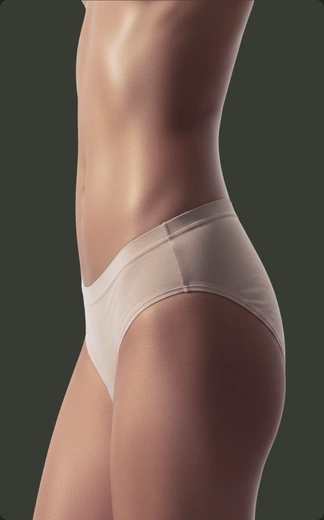
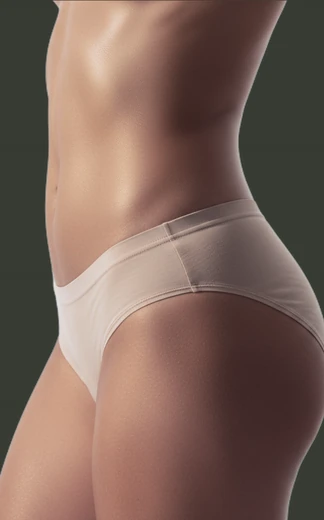
site: wide screens — S08/S10/S11 in the header container with full-bleed backgrounds, S08 page turn without empty frames, S05 photos without the Figma CROP stretch
WIDE-DIFF 8.1–8.3, 8.5, 8.6, 8.8, 10.1, 10.2, 10.4, 10.5, H.1, H.8, SP.1; IMG-DIFF §1, §3.
Report: docs/site-handoff/WIDE-FIX.md

Claude-Session: https://claude.ai/code/session_013eBRB2Vw7AJy6CtforE1i3

diff --git a/apps/site/components/HomePage.tsx b/apps/site/components/HomePage.tsx
@@ -194,19 +194,64 @@ export function HomePage() {
   const [reportPage, setReportPage] = useState(0);
   // M44: the page that leaves curls away over the left edge while the next one already lies underneath.
   const [curl, setCurl] = useState<{ src: string; n: number; dir: 1 | -1 } | null>(null);
-  // S08 note: clicks during a page turn (450 мс) are ignored.
-  const turnAt = useRef(0);
+  // S08 note: clicks during a page turn are ignored. The lock is held until the new page has actually landed
+  // (animationend of the incoming page), not by a 450 мс timer from the click (WIDE-DIFF 8.5/8.6).
+  const turning = useRef(false);
+  const turnTimer = useRef<number | undefined>(undefined);
+  const s08Ref = useRef<HTMLElement>(null);
+  const shotRef = useRef<HTMLImageElement>(null);
+  // WIDE-DIFF 8.5: every page is fetched and decoded before it is shown — the turn used to cross-fade an empty white
+  // box while the next page was still loading and then the picture snapped in.
+  const slideReady = useRef<Map<string, Promise<void>>>(new Map());
+  const loadSlide = (src: string) => {
+    let ready = slideReady.current.get(src);
+    if (!ready) {
+      const img = new Image();
+      img.src = src;
+      ready = img.decode().catch(() => undefined);
+      slideReady.current.set(src, ready);
+    }
+    return ready;
+  };
+  useEffect(() => {
+    const section = s08Ref.current;
+    if (!section) return;
+    const io = new IntersectionObserver((entries) => {
+      if (!entries.some((entry) => entry.isIntersecting)) return;
+      REPORT_SLIDES.forEach(([src]) => loadSlide(src));
+      io.disconnect();
+    }, { rootMargin: "1200px 0px" });
+    io.observe(section);
+    return () => io.disconnect();
+  }, []);
   const [turnDir, setTurnDir] = useState<1 | -1>(1);
-  const turnReport = (dir: 1 | -1) => {
+  const turnReport = async (dir: 1 | -1) => {
+    if (turning.current) return;
     const reduce = window.matchMedia("(prefers-reduced-motion: reduce)").matches;
-    // the lock lasts as long as the turn: 450 мс on the desktop, the M44 curl takes 520 мс
-    const lock = window.matchMedia("(max-width: 1100px)").matches ? 520 : 450;
-    if (!reduce && performance.now() - turnAt.current < lock) return;
-    turnAt.current = performance.now();
+    turning.current = true;
+    const next = (reportPage + REPORT_SLIDES.length + dir) % REPORT_SLIDES.length;
+    // a page that is slow to arrive must not freeze the arrows: give up waiting after 1.5 s
+    await Promise.race([loadSlide(REPORT_SLIDES[next][0]), new Promise((done) => window.setTimeout(done, 1500))]);
     setTurnDir(dir);
     if (!reduce) setCurl({ src: REPORT_SLIDES[reportPage][0], n: Date.now(), dir });
-    setReportPage((n) => (n + REPORT_SLIDES.length + dir) % REPORT_SLIDES.length);
+    setReportPage(next);
+    // the M44 curl takes 520 мс, the desktop turn 450 мс; animationend releases the lock, this is only the safety net
+    window.clearTimeout(turnTimer.current);
+    turnTimer.current = window.setTimeout(() => { turning.current = false; }, reduce ? 0 : 900);
   };
+  const turnDone = () => { window.clearTimeout(turnTimer.current); turning.current = false; };
+  // The incoming page stays the same <img> (no remount by key): its src changes to an already decoded file and the
+  // entry animation is restarted in place, so there is never a frame with an empty layer.
+  const firstShot = useRef(true);
+  useLayoutEffect(() => {
+    if (firstShot.current) { firstShot.current = false; return; }
+    const img = shotRef.current;
+    if (!img) return;
+    img.style.animation = "none";
+    void img.offsetWidth;
+    img.style.animation = "";
+  }, [reportPage]);
+  const reportDrag = useRef<number | null>(null);
   const reportTouch = useRef<number | null>(null);
   const [reportFull, setReportFull] = useState(false);
   const [chipsOpen, setChipsOpen] = useState(false);
@@ -1038,7 +1083,7 @@ export function HomePage() {
             {/* Desktop rest state of 1385:579: the bottom edges of cards 2 and 3 peek under the first one.
                 They are separate strips, so the real next card can slide in over the deck from below. */}
             {DECK.slice(1).map(([title], index) => (
-              <i className="deck-edge" key={title} aria-hidden style={{ ["--i" as string]: index + 1, backgroundImage: `linear-gradient(180deg, rgba(0,0,0,0) 56%, rgba(0,0,0,.4)), url(/figma/home/deck/card-${index + 2}.webp)` }} />
+              <i className="deck-edge" key={title} aria-hidden style={{ ["--i" as string]: index + 1, backgroundImage: `linear-gradient(180deg, rgba(0,0,0,0) 56%, rgba(0,0,0,.4)), image-set(url(/figma/home/deck/card-${index + 2}.webp) 1x, url(/figma/home/deck/card-${index + 2}@2x.webp) 2x)` }} />
             ))}
             {DECK.map(([title, text, tail], index) => {
               const body = (heading: ReactNode) => (
@@ -1257,7 +1302,7 @@ export function HomePage() {
           </div>
         </section>
 
-        <section data-s="s08">
+        <section data-s="s08" ref={s08Ref}>
           <div className="wrap">
             <article className="s08-card">
               <div className="s08-copy">
@@ -1279,21 +1324,32 @@ export function HomePage() {
                   if (start === null || end === undefined || Math.abs(end - start) < 40) return;
                   turnReport(end < start ? 1 : -1);
                 }}
+                // 8.6 (note 1303:2778): the page can also be dragged with a mouse on the desktop
+                onPointerDown={(event) => { if (event.pointerType === "mouse" && event.button === 0 && !(event.target as HTMLElement).closest("button")) reportDrag.current = event.clientX; }}
+                onPointerUp={(event) => {
+                  const start = reportDrag.current;
+                  reportDrag.current = null;
+                  if (start === null || event.pointerType !== "mouse" || Math.abs(event.clientX - start) < 40) return;
+                  turnReport(event.clientX < start ? 1 : -1);
+                }}
+                onPointerLeave={() => { reportDrag.current = null; }}
               >
                 <button type="button" className="s08-nav prev" aria-label="Предыдущая страница отчёта" onClick={() => turnReport(-1)} />
                 <i className="s08-sheet s08-sheet-3" aria-hidden />
                 <i className="s08-sheet s08-sheet-2" aria-hidden />
                 <img
+                  ref={shotRef}
                   className={`s08-shot${turnDir < 0 ? " is-back" : ""}`}
-                  key={reportPage}
                   src={REPORT_SLIDES[reportPage][0]}
                   alt=""
+                  draggable={false}
+                  onAnimationEnd={(event) => { if (event.target === event.currentTarget) turnDone(); }}
                   onClick={() => {
                     // M44: on phones a tap on the page opens the full-screen view with pinch-zoom.
                     if (window.matchMedia("(max-width: 1100px)").matches) setReportFull(true);
                   }}
                 />
-                {curl && <img className={`s08-shot s08-curl${curl.dir < 0 ? " is-back" : ""}`} key={curl.n} src={curl.src} alt="" aria-hidden onAnimationEnd={() => setCurl(null)} />}
+                {curl && <img className={`s08-shot s08-curl${curl.dir < 0 ? " is-back" : ""}`} key={curl.n} src={curl.src} alt="" aria-hidden onAnimationEnd={() => { setCurl(null); turnDone(); }} />}
                 <button type="button" className="s08-nav next" aria-label="Следующая страница отчёта" onClick={() => turnReport(1)} />
               </div>
               {reportFull && createPortal(<ReportViewer page={reportPage} onPage={setReportPage} onClose={() => setReportFull(false)} />, document.body)}

diff --git a/apps/site/app/globals.css b/apps/site/app/globals.css
@@ -2963,22 +2963,23 @@ body [data-s="s08"] .s08-nav { background: rgba(0,0,0,.25); -webkit-backdrop-fil
 body [data-s="s08"] .btn-light img { width: 16px; height: 16px; margin-left: 8px; }
 .s08-br { display: none; }
 @media (min-width: 1101px) {
-  body [data-s="s08"] { padding: 128px 48px; }
-  body [data-s="s08"] > .wrap { padding: 0; max-width: none; width: 100%; }
+  /* WIDE-DIFF 8.1: background full-bleed, the card stays in the header's 1344 container (Figma 1385:744: x 48–1392). */
+  body [data-s="s08"] { padding: 128px 0; }
+  body [data-s="s08"] > .wrap { padding: 0; max-width: none; width: min(var(--content), calc(100% - 96px)); margin: 0 auto; }
   body [data-s="s08"] .s08-card { position: relative; display: block; height: 740px; padding: 48px; border-radius: 8px; overflow: hidden; background: rgba(0,0,0,.25); -webkit-backdrop-filter: blur(36px); backdrop-filter: blur(36px); }
   body [data-s="s08"] .s08-copy { position: relative; z-index: 1; display: flex; flex-direction: column; justify-content: space-between; width: 563px; max-width: none; height: 452px; gap: 0; }
   .s08-br { display: inline; }
   body [data-s="s08"] .s08-foot { display: flex; flex-direction: column; align-items: flex-start; gap: 48px; width: 352px; }
   body [data-s="s08"] .s08-copy p { max-width: 352px; font-size: 16px; line-height: 20px; color: rgba(248,249,246,.65); }
   body [data-s="s08"] .s08-copy .btn { height: 44px; padding: 12px 16px; }
-  body [data-s="s08"] .s08-stack { position: absolute; left: 539px; right: 40px; top: 48px; height: 731px; overflow: visible; }
+  body [data-s="s08"] .s08-stack { position: absolute; left: 539px; right: auto; width: min(765px, calc(100% - 579px)); top: 48px; height: 731px; overflow: visible; }
   body [data-s="s08"] .s08-stack .s08-shot { position: absolute; left: 64px; top: 0; width: 605px; height: 727px; max-height: none; border-radius: 0; object-fit: cover; object-position: top; box-shadow: none; transform: none; background: #fff; z-index: 2; }
   body [data-s="s08"] .s08-sheet-2 { left: 103px; top: 16px; width: 582px; height: 699px; background: #707267; z-index: 1; }
   body [data-s="s08"] .s08-sheet-3 { left: 119px; top: 32px; width: 582px; height: 699px; background: rgba(255,255,255,.2); z-index: 0; }
   body [data-s="s08"] .s08-nav { top: 274px; z-index: 4; }
   body [data-s="s08"] .s08-nav.prev { left: 0; }
   body [data-s="s08"] .s08-nav.next { right: 0; }
-  body [data-s="s08"] .s08-glass { position: absolute; left: 0; right: 0; bottom: 0; z-index: 3; display: grid; grid-template-columns: repeat(3, minmax(0, 405px)); justify-content: space-between; gap: 16px; padding: 64px 48px 48px; }
+  body [data-s="s08"] .s08-glass { position: absolute; left: 0; right: 0; bottom: 0; z-index: 3; display: grid; grid-template-columns: repeat(3, minmax(0, 405px)); justify-content: start; gap: 16px; padding: 64px 48px 48px; }
   body [data-s="s08"] .s08-glass article { height: 128px; padding: 24px; display: flex; flex-direction: column; gap: 12px; border: 0; border-radius: 8px; background: rgba(0,0,0,.25); -webkit-backdrop-filter: blur(50px); backdrop-filter: blur(50px); }
   body [data-s="s08"] .s08-glass h3 { margin: 0; font-weight: 300; font-size: 24px; line-height: 28px; color: #e7f551; white-space: nowrap; letter-spacing: -0.4px; }
   body [data-s="s08"] .s08-glass p { margin: 0; font-size: 16px; line-height: 20px; color: rgba(248,249,246,.65); }

diff --git a/apps/site/app/adaptive/home.css b/apps/site/app/adaptive/home.css
@@ -848,3 +848,32 @@ body [data-s="s13"] .s13-arrow:disabled { opacity: .3; cursor: default; }
 .lab-bs-count span { color: rgba(11, 12, 8, .65); }
 .lab-bs-actions { display: flex; flex-direction: column; gap: 8px; }
 .lab-bs-actions .btn { width: 100%; height: 48px; justify-content: center; }
+
+/* ===== WIDE-DIFF (15.10): wide screens 1440–2560. Rule: the background runs the full width of the window, the
+   content stays in the header's container (1344 centred: max(48px, 50% − 672px) on each side). ===== */
+
+/* S10 (1395:574) · 10.1: the grey #d7d8cd filled only the 1344 box (white stripes at the sides, the content stuck to
+   the grey edge). Full-bleed on every width, the same trick as on the tablet: the band paints past its box. */
+body [data-s="s10"].band { background: #d7d8cd; box-shadow: 0 0 0 100vmax #d7d8cd; clip-path: inset(0 -100vmax); }
+/* 10.4: the anchor /#products stops with the heading under the header's bottom edge, not under the header */
+#products { scroll-margin-top: var(--header-now); }
+@media (min-width: 1101px) {
+  /* 10.2: 128 from the top as in the frame (was 120/140) */
+  body [data-s="s10"].band { padding: 128px 0; }
+  /* 10.5: products 880 + card 440; with a classic scrollbar on 1440 the container is 1329 — the products give way */
+  body [data-s="s10"] .checker-grid { grid-template-columns: minmax(0, 880px) 440px; justify-content: space-between; }
+}
+
+/* S11 «Тест разработан в Австрии» (1385:792) · H.1: the copy sits in the container, the photo half runs to the right
+   edge of the window and the photo always covers it; the CE-IVDR / ISO plates belong to the photo (48 from its left
+   and bottom edges, 2 × 307 + 10 as in the frame) instead of floating past its sides. */
+@media (min-width: 1101px) {
+  body [data-s="s11"] .aus-copy { padding: 128px 48px 128px max(48px, calc(100% - 672px)); } /* % of the half = 50% of the window − 672 */
+  body [data-s="s11"] .aus-photo .parallax { inset: calc(50% - 600px) auto auto 50%; width: max(1024px, 100%); height: auto; aspect-ratio: 1; translate: -50% 0; min-height: calc(100% + 176px); object-fit: cover; }
+  body [data-s="s11"] .aus-cards { left: 48px; right: auto; width: min(624px, calc(100% - 96px)); grid-template-columns: repeat(2, minmax(0, 307px)); }
+}
+
+/* S08 · 8.8: the page and the two sheets under it have rounded top corners in the frame (1385:759–761: 8/8/0/0). */
+@media (min-width: 1101px) {
+  body [data-s="s08"] .s08-stack .s08-shot, body [data-s="s08"] .s08-sheet { border-radius: 8px 8px 0 0; }
+}

diff --git a/apps/site/app/adaptive/shared.css b/apps/site/app/adaptive/shared.css
@@ -300,3 +300,7 @@ html body [data-s="s15"] .acc.is-open .acc-plus { background-image: none; }
 /* Touch: no blue Chromium tap flash on the lecturer cards and the tab rows — they have their own press / active states
    (M17 .is-tapped, M09 / M19 pills, P06 tabs). */
 .kf-lector, .sp-lectors > div, .sp-tabs button, .sp-report-tabs button, .ls-tabs button { -webkit-tap-highlight-color: transparent; }
+
+/* WIDE-DIFF / IMG-DIFF §3: SVG icons in boxes of another proportion (share-2 14×9 in 16×16, check 10×8 in 14×14,
+   play 14×16 in 24×24, chevron 24×20 on 2560) were stretched; an icon keeps its own proportion and is centred. */
+img[src$=".svg"] { object-fit: contain; }

diff --git a/apps/site/app/adaptive/blog.css b/apps/site/app/adaptive/blog.css
@@ -381,3 +381,9 @@ main.blog-article .table-swipe.is-gone { opacity: 0; }
 @media (max-width: 767px) and (prefers-reduced-motion: reduce) {
   main.blog-page .card.is-press, main.blog-page .author-card.is-press { transform: none; }
 }
+
+/* WIDE-DIFF: 208 + 760 + 312 + 2 × 32 = 1344 exactly — with a classic scrollbar on 1440 the container is 1329 and the
+   right column stuck out by 15 px. The text column gives way instead. */
+@media (min-width: 1280px) {
+  main.blog-article .article-grid { grid-template-columns: 208px minmax(0, 760px) 312px; justify-content: space-between; }
+}

diff --git a/apps/site/app/adaptive/course.css b/apps/site/app/adaptive/course.css
@@ -101,3 +101,9 @@
   html body .ls-layout .ls-about-mob { display: none; }
   html body .ls-layout .ls-after { background: transparent; border-radius: 0; border-top: 1px solid rgba(11, 12, 8, 0.3); padding: 20px 0 0; }
 }
+
+/* WIDE-DIFF: the lesson layout used `100% − 40px`, so with a classic scrollbar on 1440 it stood 7 px wider than the
+   header's container on each side; on the desktop it takes the same container as the header. */
+@media (min-width: 1101px) {
+  [data-s="l01"].ls-layout { width: min(var(--content), calc(100% - 96px)); }
+}

diff --git a/apps/site/app/adaptive/specialists.css b/apps/site/app/adaptive/specialists.css
@@ -160,3 +160,9 @@
   [data-s="p06"] .sp-controls { left: var(--off); top: 879px; bottom: auto; z-index: 2; }
 }
 
+
+/* WIDE-DIFF SP.1: the back sheet of the P06 fan (rotate 7°) stuck 8 px past the container's right edge; in the frame
+   (1126:966) the rotated pages end exactly at x 1392. */
+@media (min-width: 1101px) {
+  [data-s="p06"] .sp-sheet.is-back-2 { left: 32px; }
+}

diff --git a/docs/site-handoff/tools/sym-recrop.py b/docs/site-handoff/tools/sym-recrop.py
@@ -1,0 +1,92 @@
+"""Re-render the S05 symptom cards without the non-uniform Figma CROP stretch.
+
+For each card: warp the raw cut-out exactly as Figma does (imageTransform, CROP) -> check it lines up with the current
+export; learn the export's colour grading (Figma image filters + card glass + bottom gradient) as a polynomial in
+(r,g,b,y) on the photo pixels; then warp again with an equal scale (same vertical span, same horizontal centre),
+apply the learnt grading and composite over the export's own background rows.
+"""
+import sys, json
+import numpy as np
+from PIL import Image
+
+SRC = "/home/claude/foodfox/apps/site/public/figma/symptoms/"
+OUT = sys.argv[1]
+
+def load_rgba(path, alpha_from=None, size=None):
+    im = Image.open(path).convert("RGBA")
+    if alpha_from:
+        a = Image.open(alpha_from).convert("RGBA").split()[3].resize(im.size, Image.LANCZOS)
+        im.putalpha(a)
+    return np.asarray(im).astype(np.float32) / 255.0
+
+def warp(img, a, tx, d, ty, W, H):
+    """node pixel (x,y) -> image u = a*x/W + tx, v = d*y/H + ty; bilinear; outside -> alpha 0"""
+    ih, iw = img.shape[:2]
+    xs = (np.arange(W) + 0.5) / W
+    ys = (np.arange(H) + 0.5) / H
+    u = a * xs[None, :] + tx
+    v = d * ys[:, None] + ty
+    px = u * iw - 0.5
+    py = v * ih - 0.5
+    px = np.broadcast_to(px, (H, W)); py = np.broadcast_to(py, (H, W))
+    inside = (px >= -0.5) & (px <= iw - 0.5) & (py >= -0.5) & (py <= ih - 0.5)
+    x0 = np.clip(np.floor(px).astype(int), 0, iw - 1); y0 = np.clip(np.floor(py).astype(int), 0, ih - 1)
+    x1 = np.clip(x0 + 1, 0, iw - 1); y1 = np.clip(y0 + 1, 0, ih - 1)
+    fx = np.clip(px - np.floor(px), 0, 1)[..., None]; fy = np.clip(py - np.floor(py), 0, 1)[..., None]
+    out = (img[y0, x0] * (1 - fx) * (1 - fy) + img[y0, x1] * fx * (1 - fy) + img[y1, x0] * (1 - fx) * fy + img[y1, x1] * fx * fy)
+    out[~inside] = 0
+    return out
+
+def feats(rgb, yy):
+    r, g, b = rgb[:, 0], rgb[:, 1], rgb[:, 2]
+    one = np.ones_like(r)
+    base = [one, r, g, b, r * r, g * g, b * b, r * g, g * b, r * b, r ** 3, g ** 3, b ** 3]
+    return np.stack(base + [yy, yy * yy] + [yy * t for t in (r, g, b)] + [yy * yy * t for t in (r, g, b)], 1)
+
+CARDS = {
+    # name: raw, alpha source, Figma imageTransform (1385:610 / 1385:621 / 1385:636)
+    "skin": dict(raw="s7.png", alpha=None, tr=[[1.2041949033737183, 0, -0.025974320247769356], [0, 0.954544723033905, 0.028934331610798836]]),
+    "gut": dict(raw="s1.png", alpha="gut1.png", tr=[[0.8418211936950684, 0, 0.07851788401603699], [0, 1.0006554126739502, -0.0006554335122928023]]),
+    "well": dict(raw="s12.png", alpha=None, tr=[[0.7878803014755249, 0, -0.18750469386577606], [0, 0.9365369081497192, 0.06303613632917404]]),
+}
+W, H = 648, 1040
+report = {}
+for name, c in CARDS.items():
+    raw = load_rgba(SRC + c["raw"], SRC + c["alpha"] if c["alpha"] else None)
+    ih, iw = raw.shape[:2]
+    (a, _, tx), (_, d, ty) = c["tr"]
+    exp = np.asarray(Image.open(SRC + f"{name}-card@2x.webp").convert("RGB")).astype(np.float32) / 255.0
+    old = warp(raw, a, tx, d, ty, W, H)
+    alpha = old[..., 3]
+    yy = np.broadcast_to(((np.arange(H) + 0.5) / H)[:, None], (H, W))
+    # background rows: the export where the photo is absent
+    bg = np.zeros((H, 3), np.float32)
+    for y in range(H):
+        m = alpha[y] < 0.02
+        bg[y] = np.median(exp[y][m], 0) if m.sum() > 8 else np.nan
+    idx = np.arange(H); ok = ~np.isnan(bg[:, 0])
+    for ch in range(3): bg[:, ch] = np.interp(idx, idx[ok], bg[ok, ch])
+    # fit photo grading on opaque pixels
+    m = alpha > 0.98
+    X = feats(old[..., :3][m], yy[m]); Y = exp[m]
+    coef, *_ = np.linalg.lstsq(X, Y, rcond=None)
+    pred = np.clip(X @ coef, 0, 1)
+    err_fit = float(np.abs(pred - Y).mean() * 255)
+    # full reconstruction of the current export (sanity: the model explains it)
+    allX = feats(old[..., :3].reshape(-1, 3), yy.reshape(-1))
+    photo = np.clip(allX @ coef, 0, 1).reshape(H, W, 3)
+    recon = photo * alpha[..., None] + bg[:, None, :] * (1 - alpha[..., None])
+    err_recon = float(np.abs(recon - exp).mean() * 255)
+    # equal-scale crop: keep the vertical span (d, ty), keep the horizontal centre
+    a2 = d * ih * (W / H) / iw
+    tx2 = (a * 0.5 + tx) - a2 * 0.5
+    new = warp(raw, a2, tx2, d, ty, W, H)
+    al2 = new[..., 3]
+    nX = feats(new[..., :3].reshape(-1, 3), yy.reshape(-1))
+    photo2 = np.clip(nX @ coef, 0, 1).reshape(H, W, 3)
+    out = photo2 * al2[..., None] + bg[:, None, :] * (1 - al2[..., None])
+    img = Image.fromarray((out * 255 + 0.5).astype(np.uint8))
+    img.save(f"{OUT}/{name}-card@2x.png")
+    Image.fromarray((recon * 255 + 0.5).astype(np.uint8)).save(f"{OUT}/{name}-recon.png")
+    report[name] = dict(stretch_y_over_x=round((ih * d and (1 / d) / ih) / ((1 / a) / iw), 3), a2=round(a2, 4), tx2=round(tx2, 4), err_fit=round(err_fit, 2), err_recon=round(err_recon, 2))
+print(json.dumps(report, indent=1))

diff --git a/docs/site-handoff/WIDE-FIX.md b/docs/site-handoff/WIDE-FIX.md
@@ -1,0 +1,32 @@
+# WIDE-FIX: исправления по WIDE-DIFF и IMG-DIFF (15.10.2026, MSK)
+
+Ветка `cursor/partner-cabinet-auth-5e5b`. Проверка локально (`next build` + `next start`, headless Chromium) на 2560, 2048 (27" при 125%), 1920, 1707 (27" при 150%), 1680, 1536, 1440, 1280, 1024, 768, 390. Живой сайт и CDN Figma из облачной среды недоступны (сетевая политика), Figma читалась через API.
+
+## Исправлено
+| Пункт | Что сделано | Где |
+|---|---|---|
+| 8.1–8.3 S08 | Карточка в контейнере 1344, фон на всю ширину; колода 765 px (`min(765px, 100% − 579px)`); плашки `repeat(3, minmax(0,405px))` от левого края, gap 16 | `globals.css` (блок S08 ≥1101) |
+| 8.5–8.6 S08 | Все листы грузятся и декодируются при подходе секции (IO, rootMargin 1200); смена листа только после `decode()`; `<img>` не перемонтируется по `key`, анимация перезапускается на месте; блокировка кликов снимается по `animationend`, а не по таймеру; перелистывание перетаскиванием мышью | `HomePage.tsx` |
+| 8.8 S08 | Скругление 8/8/0/0 у листа и подложек (1385:759–761) | `adaptive/home.css` |
+| 10.1, 10.2, 10.4, 10.5 S10 | Серый фон на всю ширину на всех ширинах (box-shadow + clip-path), отступ 128, `#products { scroll-margin-top: var(--header-now) }`, колонки `minmax(0,880px) 440px` | `adaptive/home.css` |
+| H.1 S11 | Текст в контейнере (`padding-left: max(48px, 100% − 672px)` от половины), фото всегда покрывает правую половину, плашки 2 × 307 у левого и нижнего края фото | `adaptive/home.css` |
+| H.8 S05 | Фото «Кожа», «ЖКТ», «Самочувствие» пересобраны из исходных вырезок с равным масштабом (тот же вертикальный охват и центр, что в CROP Figma), цветокоррекция макета перенесена (ошибка реконструкции старого экспорта < 1,1/255). 4-я карточка — градиент из Figma (`1388:451`, IMG-TODO), без повтора торса | `public/figma/symptoms/*-card(@2x).webp`, `tools/sym-recrop.py` |
+| SP.1 | Задний лист веера P06 сдвинут на 8 px: правый край = край контейнера, как в 1126:966 | `adaptive/specialists.css` |
+| SVG-иконки (R.1, L.2, C.6, /reviews) | `img[src$=".svg"] { object-fit: contain }` | `adaptive/shared.css` |
+| /course/lessons, статья | При классической полосе прокрутки на 1440 контент выходил за контейнер на 7–15 px | `adaptive/course.css`, `adaptive/blog.css` |
+| S04 | Края карт колоды (`deck-edge`) брали 1x-картинку: теперь `image-set` 1x/2x | `HomePage.tsx` |
+
+## Проверено, правка не нужна
+- CT.1 /contacts, LB.1 /labs: «вылет» — внутренние слои Leaflet, обрезанные контейнером карты. CF.1 /certificates, 404: картинка в `overflow:hidden` с зумом. Визуально в контейнере.
+- C.3 /course «Программа»: фон уже на всю ширину. C.4: наложения нет. L.1: шапка кабинета по контейнеру.
+- H.2 S07: пустота между заголовком и текстом есть в фрейме 1385:652 (текст на y 472 колонки 644).
+- H.4 S13: лента отзывов дрейфует (бегущая строка), положение первой карточки меняется по времени — так задумано.
+- H.5 S04: карта 1118 px фиксирована и во фрейме 1385:579.
+- R.2 /report: карточки U/mL перекрываются веером по макету.
+- Сертификаты C01: листы веера 808 px (резко на DPR 2); мягкие тени листов намеренно в низком разрешении.
+
+## Не сделано: нет исходника лучшего качества
+Размеры исходных картинок в самом файле Figma (`getImageByHash().getSizeAsync()`): фон /course и /blog `hero-bg` — 736×1474, `cta-bg` — 1024×1024, фото «Австрия» — 1024×1024, лист отчёта `p4` — 1002×1310. Экспорт «2880» из Figma дал бы тот же апскейл. Нужны исходники от заказчика.
+
+## Пересборка S05
+Скрипт `tools/sym-recrop.py <outdir>` (потом webp q90, @1x — Lanczos 324×520). Алгоритм: исходники `s7.png` (кожа), `s1.png` + альфа из `gut1.png` (ЖКТ), `s12.png` (самочувствие); imageTransform из узлов 1385:610/621/636; новый `a' = d·H_img·W/(H·W_img)`, `tx' = (a/2 + tx) − a'/2`; цвет — полином 3-й степени по RGB с членами по y, обученный на парах «старый варп → текущий экспорт».
